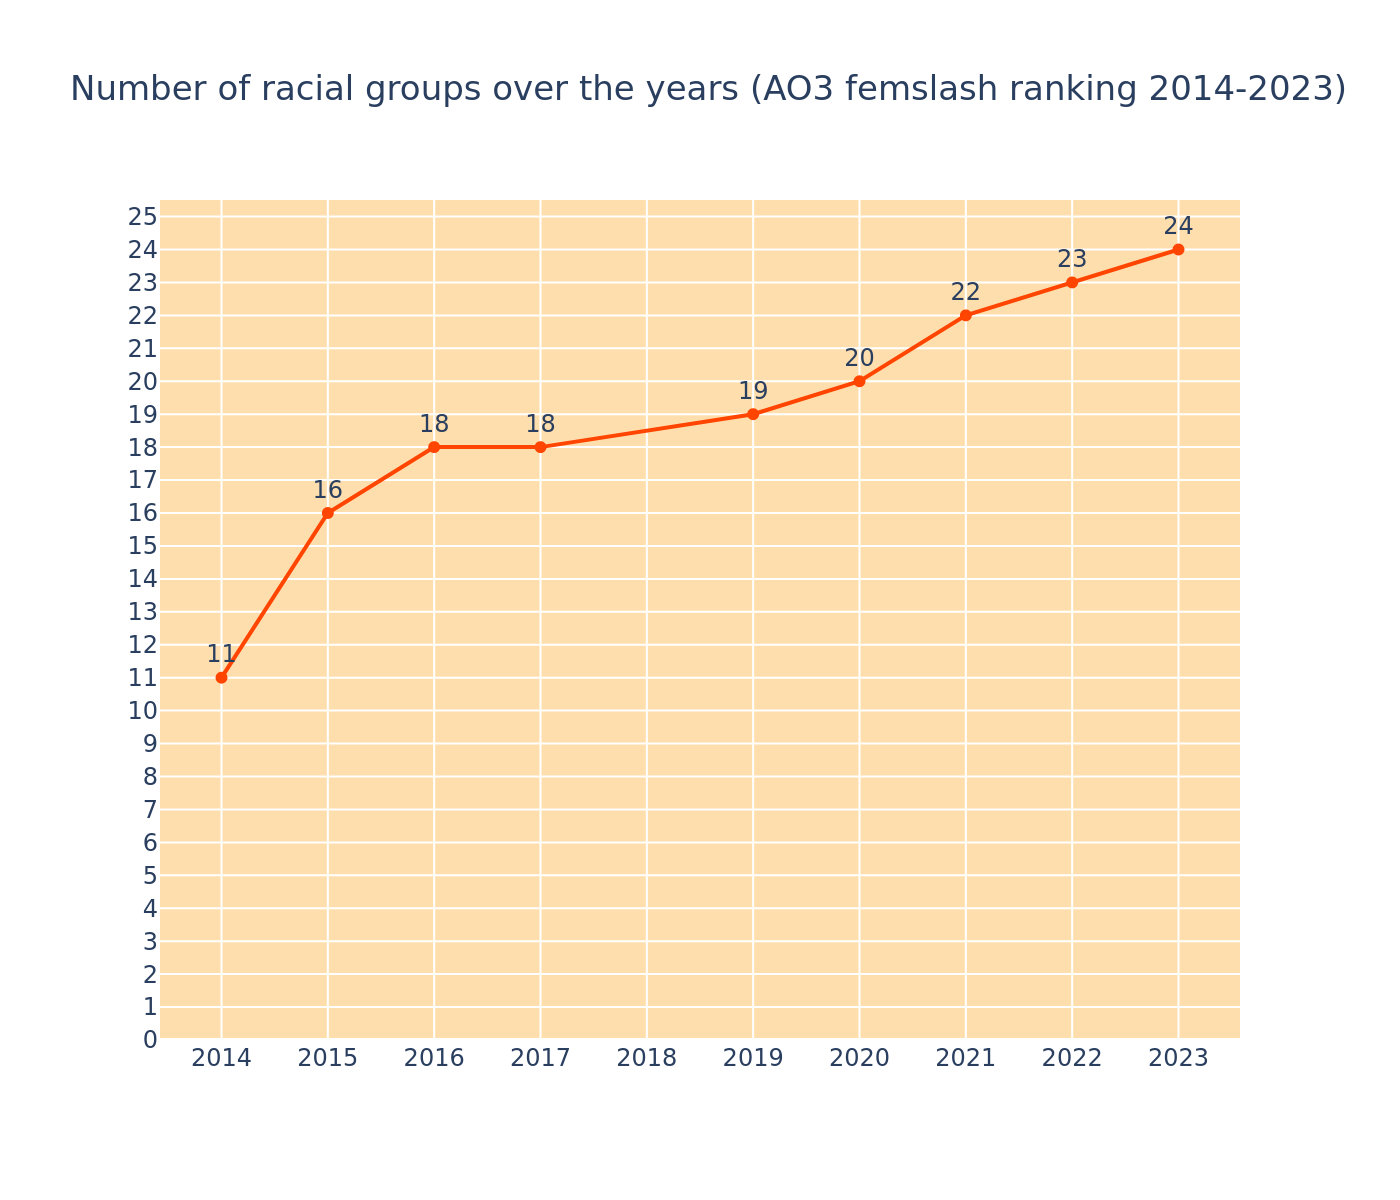
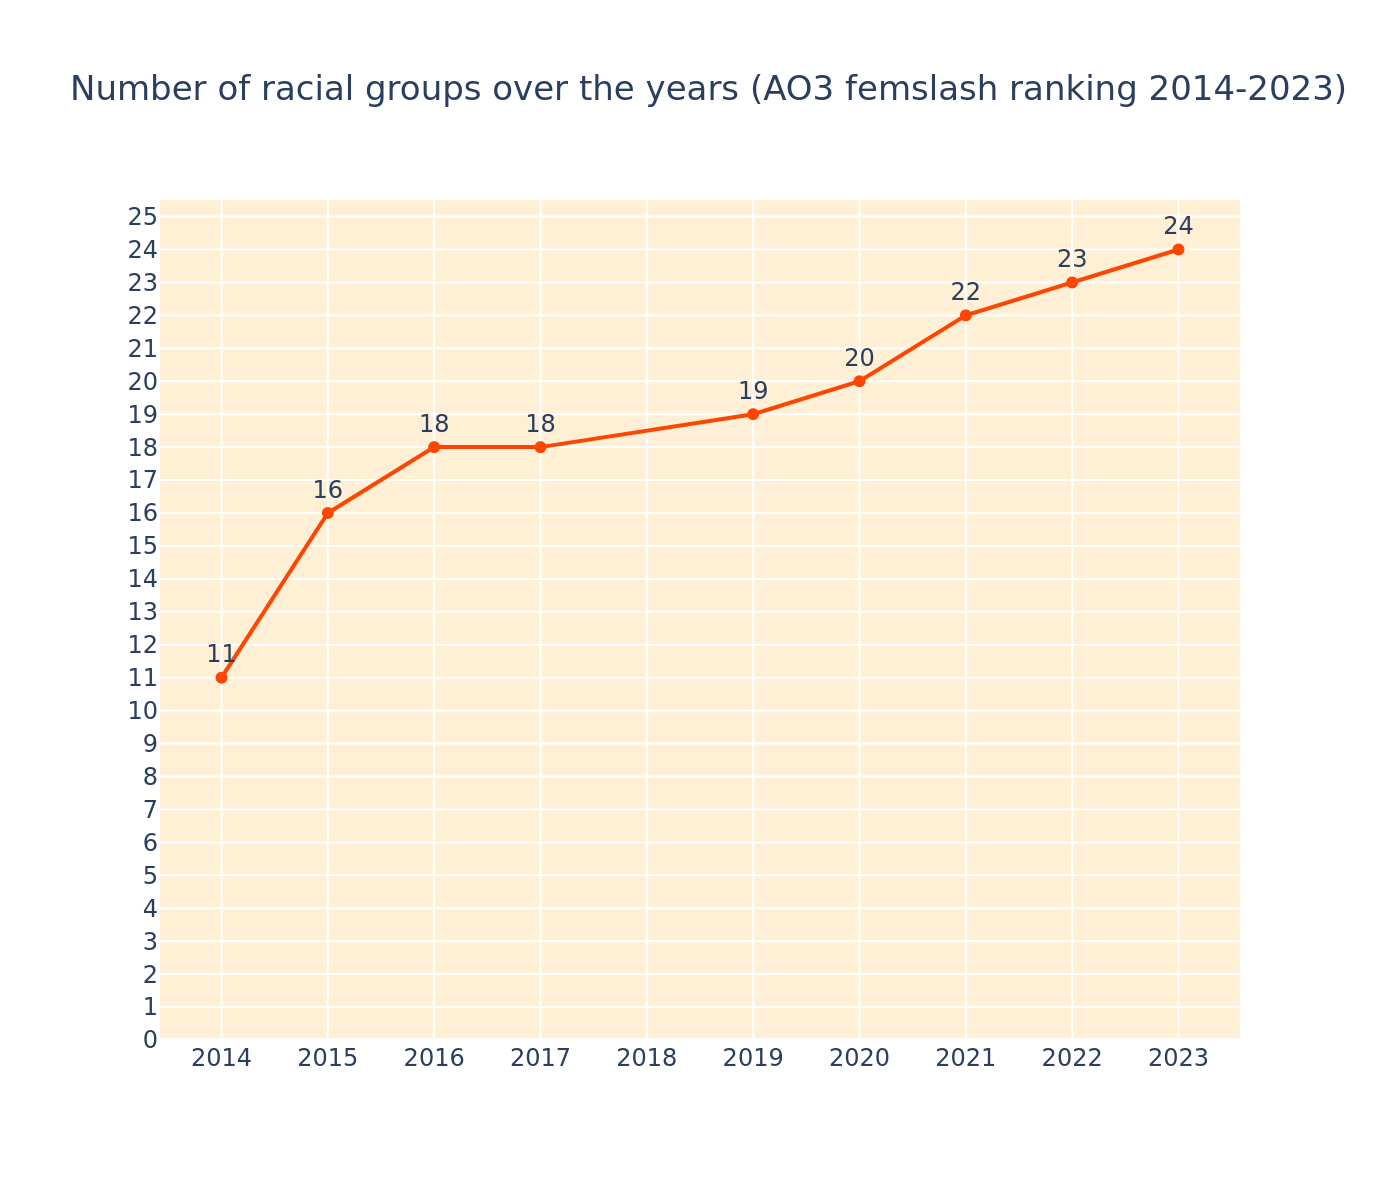
add and update more femslash race stat diagrams

diff --git a/visualisation/ao3_femslash_rankings_2014_2023/vis_femslash_ranking_race_stat_diagram_code.py b/visualisation/ao3_femslash_rankings_2014_2023/vis_femslash_ranking_race_stat_diagram_code.py
@@ -51,6 +51,30 @@ def visualise_total_multi_chars(input_df):
 
     return year_donuts_fig
 
+def visualise_multi_char_line(input_df):
+    """
+    visualise the femslash output from total_multi_chars as line charts
+    """
+    fig = go.Figure(
+        data=go.Scatter(
+            x=input_df.columns, 
+            y=input_df.loc["multi_chars"],
+            text=input_df.loc["multi_chars"],
+            textposition="top center",
+            mode="lines+text+markers",
+            line={"color": "orangered"}
+        ),
+        layout={
+            "title": 'Multiracial characters by year (AO3 femslash ranking 2014-2023)',
+            "plot_bgcolor": "papayawhip",
+            "yaxis_rangemode": "tozero",
+            "yaxis_tickmode": "linear",
+            "xaxis_tickmode": "linear"
+        }
+    )
+
+    return fig
+
 def visualise_total_groups(input_srs):
     """
     visualise the femslash output from total_racial_groups as a line chart
@@ -67,7 +91,7 @@ def visualise_total_groups(input_srs):
         ),
         layout={
             "title": 'Number of racial groups over the years (AO3 femslash ranking 2014-2023)',
-            "plot_bgcolor": "navajowhite",
+            "plot_bgcolor": "papayawhip",
             "yaxis_rangemode": "tozero",
             "yaxis_tickmode": "linear",
             "xaxis_tickmode": "linear"
@@ -76,4 +100,92 @@ def visualise_total_groups(input_srs):
 
     return fig
 
+def visualise_interracial_ratio(input_df):
+    """
+    visualise the femslash output from total_interracial_ratio as pie charts
+    """
+    year_donuts_fig = make_subplots(rows=3, cols=3, specs=[
+        [{'type':'domain'}, {'type':'domain'}, {'type':'domain'}], 
+        [{'type':'domain'}, {'type':'domain'}, {'type':'domain'}],
+        [{'type':'domain'}, {'type':'domain'}, {'type':'domain'}]
+    ],)
 
+    row_count = 1
+    col_count = 1
+
+    for year in input_df.columns:
+        year_series = input_df[year]
+
+        colours = ["orangered", "gold", "orange"]
+
+        year_donuts_fig.add_trace(go.Pie(
+            labels=year_series.index, 
+            values=year_series.values, 
+            hole=0.3, # determines hole size
+            title=year, # text that goes in the middle of the hole
+            sort=False, # if you want to keep it in its original order rather than sorting by size
+            titlefont_size=10, # to format title text
+            marker_colors=colours,
+            automargin=False,
+            textposition="inside"
+        ), row_count, col_count)
+
+        if col_count == 3:
+            col_count = 1
+            row_count += 1
+        else:
+            col_count += 1
+
+    year_donuts_fig.update_traces(
+        textinfo='percent',
+    )
+    year_donuts_fig.update_layout(
+        title="Interracial ships by year (AO3 femslash ranking 2014-2023)", 
+        uniformtext_minsize=12,
+        uniformtext_mode="hide",
+        #showlegend=False,
+    )
+
+    return year_donuts_fig
+
+def visualise_interracial_lines(input_df):
+    """
+    visualise the femslash output from total_interracial_ratio as a line chart
+    """
+    fig = go.Figure(
+        data=go.Scatter(
+            x=input_df.columns, 
+            y=input_df.loc["interracial_ships"],
+            text=input_df.loc["interracial_ships"],
+            textposition="top center",
+            mode="lines+text+markers",
+            line={"color": "orangered"},
+            name="interracial ships"
+        ),
+        layout={
+            "title": 'Interracial ships by year (AO3 femslash ranking 2014-2023)',
+            "plot_bgcolor": "papayawhip",
+            "yaxis_rangemode": "tozero",
+            "xaxis_tickmode": "linear"
+        }
+    )
+    fig.add_trace(go.Scatter(
+        x=input_df.columns, 
+        y=input_df.loc["ambiguous_ships"],
+        text=input_df.loc["ambiguous_ships"],
+        textposition="top center",
+        mode="lines+text+markers",
+        line={"color": "gold"},
+        name="ambiguous ships"
+    ))
+    fig.add_trace(go.Scatter(
+        x=input_df.columns, 
+        y=input_df.loc["non-interracial_ships"],
+        text=input_df.loc["non-interracial_ships"],
+        textposition="top center",
+        mode="lines+text+markers",
+        line={"color": "orange"},
+        name="non-interracial ships"
+    ))
+
+    return fig

diff --git a/visualisation/ao3_femslash_rankings_2014_2023/vis_femslash_ranking_run_code.py b/visualisation/ao3_femslash_rankings_2014_2023/vis_femslash_ranking_run_code.py
@@ -40,7 +40,10 @@ from visualisation.ao3_femslash_rankings_2014_2023.vis_femslash_ranking_general_
 )
 from visualisation.ao3_femslash_rankings_2014_2023.vis_femslash_ranking_race_stat_diagram_code import (
     visualise_total_multi_chars,
+    visualise_multi_char_line,
     visualise_total_groups,
+    visualise_interracial_ratio,
+    visualise_interracial_lines,
 )
 
 # get data & turn into big df
@@ -131,29 +134,51 @@ colour_lookup_dict = make_colour_lookup(femslash_ship_info_df)
 
 # # race stats
 
-# femslash_race_percent = total_racial_group_nos_by_year(femslash_character_info_df)
+femslash_race_percent = total_racial_group_nos_by_year(femslash_character_info_df)
 femslash_race_combo_percent = total_racial_combo_nos_by_year(femslash_ship_info_df)
 
-# total_multi = total_multi_chars(femslash_race_percent)
-# multi_fig = visualise_total_multi_chars(total_multi)
-# multi_fig.write_image(
-#     "visualisation/ao3_femslash_rankings_2014_2023/ao3_femslash_rankings_charts/sapphic_race_stats/femslash_multiracial_chars_2014_2023.png", 
-#     width=700, 
-#     height=650, 
-#     scale=2
-# )
+total_multi = total_multi_chars(femslash_race_percent)
+multi_fig = visualise_total_multi_chars(total_multi)
+multi_fig.write_image(
+    "visualisation/ao3_femslash_rankings_2014_2023/ao3_femslash_rankings_charts/sapphic_race_stats/femslash_multiracial_chars_pies_2014_2023.png", 
+    width=700, 
+    height=650, 
+    scale=2
+)
+multi_line = visualise_multi_char_line(total_multi)
+multi_line.write_image(
+    "visualisation/ao3_femslash_rankings_2014_2023/ao3_femslash_rankings_charts/sapphic_race_stats/femslash_multiracial_chars_line_2014_2023.png", 
+    width=700, 
+    height=600, 
+    scale=2
+)
 
-# total_groups = total_racial_groups(femslash_race_percent)
-# total_group_fig = visualise_total_groups(total_groups)
-# total_group_fig.write_image(
-#     "visualisation/ao3_femslash_rankings_2014_2023/ao3_femslash_rankings_charts/sapphic_race_stats/femslash_racial_groups_2014_2023.png", 
-#     width=700, 
-#     height=600, 
-#     scale=2
-# )
+total_groups = total_racial_groups(femslash_race_percent)
+total_group_fig = visualise_total_groups(total_groups)
+total_group_fig.write_image(
+    "visualisation/ao3_femslash_rankings_2014_2023/ao3_femslash_rankings_charts/sapphic_race_stats/femslash_racial_groups_2014_2023.png", 
+    width=700, 
+    height=600, 
+    scale=2
+)
 
 total_interracial = total_interracial_ratio(femslash_race_combo_percent)
-total_multi_involved = total_multi_involved_ratio(femslash_race_combo_percent)
+interracial_fig = visualise_interracial_ratio(total_interracial)
+interracial_fig.write_image(
+    "visualisation/ao3_femslash_rankings_2014_2023/ao3_femslash_rankings_charts/sapphic_race_stats/femslash_interracial_pies_2014_2023.png", 
+    width=700, 
+    height=650, 
+    scale=2
+)
+interracial_line = visualise_interracial_lines(total_interracial)
+interracial_line.write_image(
+    "visualisation/ao3_femslash_rankings_2014_2023/ao3_femslash_rankings_charts/sapphic_race_stats/femslash_interracial_lines_2014_2023.png", 
+    width=700, 
+    height=600, 
+    scale=2
+)
+
+# total_multi_involved = total_multi_involved_ratio(femslash_race_combo_percent)
 
 # femslash_prepped_dict = prep_df_for_non_white_ship_comp(femslash_ship_info_df)
 # non_white_counts = count_non_white_ships(femslash_prepped_dict)

diff --git a/visualisation/ao3_femslash_rankings_2014_2023/vis_femslash_ranking_race_stat_code.py b/visualisation/ao3_femslash_rankings_2014_2023/vis_femslash_ranking_race_stat_code.py
@@ -90,11 +90,18 @@ def total_interracial_ratio(race_combo_percent):
         df = race_combo_percent[year].reset_index()
         total = df["count"].sum()
         inter = df.where(
-            df["race_combo"].str.contains("/")
+            (df["race_combo"].str.contains("/")) & (df["race_combo"].str.contains("Ambig") == False)
         )["count"].sum()
-        non_inter = total - inter
-        temp_dict[year] = [inter, non_inter]
-    new_df = pd.DataFrame(data=temp_dict, index=["interracial_ships", "non-interracial_ships"])
+        ambig = df.where(
+            df["race_combo"].str.contains("Ambig")
+        )["count"].sum()
+        non_inter = total - inter - ambig
+        temp_dict[year] = [inter, ambig, non_inter]
+    new_df = pd.DataFrame(data=temp_dict, index=[
+        "interracial_ships", 
+        "ambiguous_ships", 
+        "non-interracial_ships"
+    ])
     return new_df
 
 # of which how many involved multi chars vs non-multi
